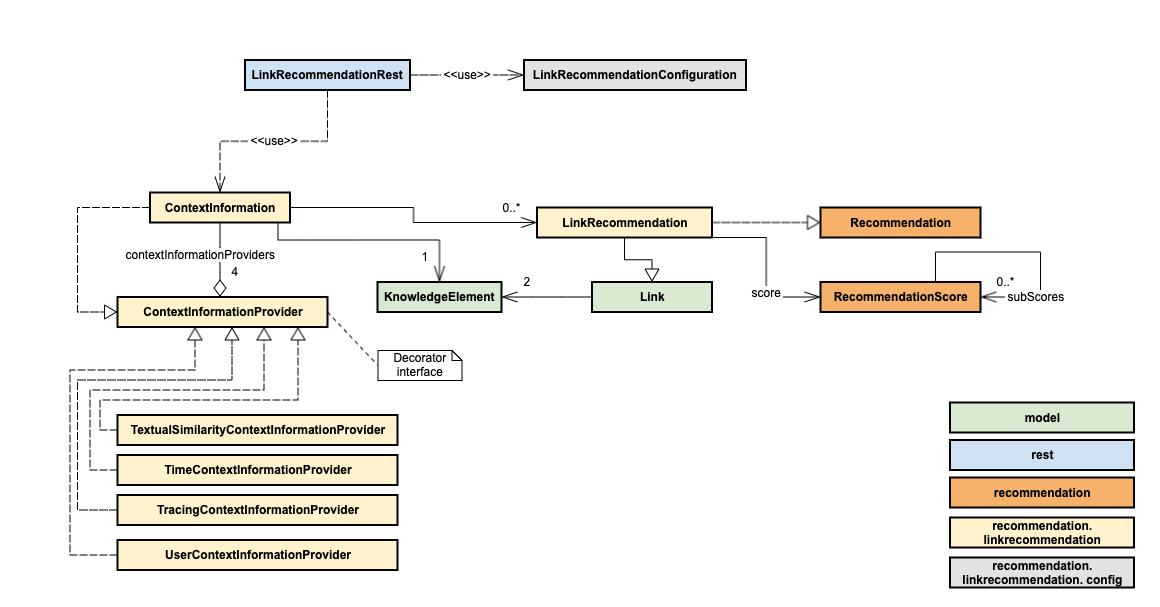
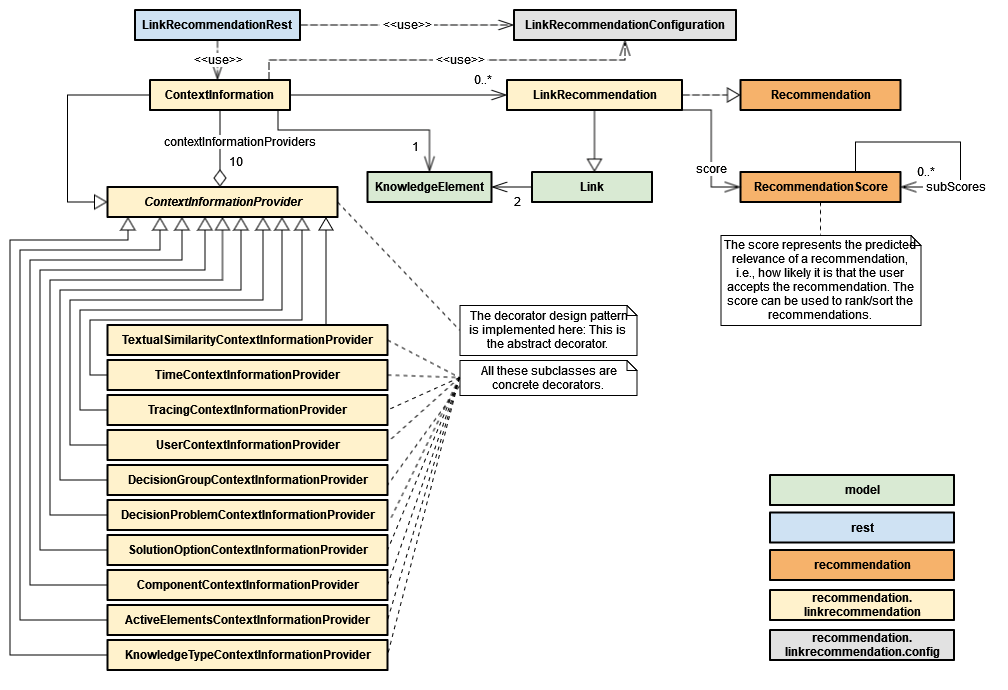
Add more comments

diff --git a/src/main/java/de/uhd/ifi/se/decision/management/jira/recommendation/linkrecommendation/contextinformation/ContextInformation.java b/src/main/java/de/uhd/ifi/se/decision/management/jira/recommendation/linkrecommendation/contextinformation/ContextInformation.java
@@ -2,13 +2,13 @@ package de.uhd.ifi.se.decision.management.jira.recommendation.linkrecommendation
 
 import java.util.ArrayList;
 import java.util.List;
+import java.util.Set;
 import java.util.TreeSet;
 
 import de.uhd.ifi.se.decision.management.jira.model.KnowledgeElement;
 import de.uhd.ifi.se.decision.management.jira.model.KnowledgeGraph;
 import de.uhd.ifi.se.decision.management.jira.model.KnowledgeType;
 import de.uhd.ifi.se.decision.management.jira.persistence.recommendation.DiscardedRecommendationPersistenceManager;
-import de.uhd.ifi.se.decision.management.jira.recommendation.Recommendation;
 import de.uhd.ifi.se.decision.management.jira.recommendation.RecommendationScore;
 import de.uhd.ifi.se.decision.management.jira.recommendation.RecommendationType;
 import de.uhd.ifi.se.decision.management.jira.recommendation.linkrecommendation.LinkRecommendation;
@@ -23,55 +23,31 @@ public class ContextInformation extends ContextInformationProvider {
 	private KnowledgeElement element;
 	private LinkRecommendationConfiguration linkRecommendationConfig;
 
+	/**
+	 * @param element
+	 *            selected/source element for that link recommendations should be
+	 *            made and duplicates be detected.
+	 * @param linkRecommendationConfig
+	 *            {@link LinkRecommendationConfiguration} object.
+	 */
 	public ContextInformation(KnowledgeElement element, LinkRecommendationConfiguration linkRecommendationConfig) {
 		this.element = element;
 		this.linkRecommendationConfig = linkRecommendationConfig;
 	}
 
-	public List<Recommendation> getLinkRecommendations() {
+	/**
+	 * @return the top-k {@link LinkRecommendation}s with a
+	 *         {@link RecommendationScore} above the threshold after sorting all the
+	 *         recommendations by their {@link RecommendationScore}. Discarded
+	 *         recommendations are marked as such. Potential duplicates are also
+	 *         marked as such by their {@link RecommendationType}.
+	 */
+	public List<LinkRecommendation> getLinkRecommendations() {
 		KnowledgeGraph graph = KnowledgeGraph.getInstance(element.getProject());
 		List<KnowledgeElement> unlinkedElements = graph.getUnlinkedElementsAndNotInSameJiraIssue(element);
-		List<Recommendation> recommendations = assessRelations(element, unlinkedElements);
+		List<LinkRecommendation> recommendations = assessRelations(element, unlinkedElements);
 		recommendations = filterUselessRecommendations(recommendations);
 		return markDiscardedRecommendations(recommendations);
-	}
-
-	private List<Recommendation> markDiscardedRecommendations(List<Recommendation> recommendations) {
-		List<KnowledgeElement> discardedElements = DiscardedRecommendationPersistenceManager
-				.getDiscardedLinkRecommendations(element);
-		return markDiscardedRecommendations(recommendations, discardedElements);
-	}
-
-	public static List<Recommendation> markDiscardedRecommendations(List<Recommendation> recommendations,
-			List<KnowledgeElement> discardedElements) {
-		for (Recommendation recommendation : recommendations) {
-			if (discardedElements.contains(((LinkRecommendation) recommendation).getTarget())) {
-				recommendation.setDiscarded(true);
-			}
-		}
-		return recommendations;
-	}
-
-	/**
-	 * @param recommendations
-	 *            all recommendations as an unsorted collection.
-	 * @return
-	 */
-	private List<Recommendation> filterUselessRecommendations(List<Recommendation> recommendations) {
-		TreeSet<Recommendation> sortedRecommendations = new TreeSet<Recommendation>(recommendations);
-		recommendations.clear();
-		int i = 0;
-		int k = linkRecommendationConfig.getMaxRecommendations(); // top k
-		for (Recommendation recommendation : sortedRecommendations) {
-			if (i == k) {
-				break;
-			}
-			if (recommendation.getScore().getValue() >= linkRecommendationConfig.getMinProbability()) {
-				recommendations.add(recommendation);
-			}
-			++i;
-		}
-		return recommendations;
 	}
 
 	@Override
@@ -98,8 +74,51 @@ public class ContextInformation extends ContextInformationProvider {
 	}
 
 	/**
+	 * @param recommendations
+	 *            {@link LinkRecommendation}s, sorting does not matter.
+	 * @return same {@link LinkRecommendation}s, but the recommendations that were
+	 *         discarded by the user are marked as such.
+	 * @see DiscardedRecommendationPersistenceManager
+	 */
+	private List<LinkRecommendation> markDiscardedRecommendations(List<LinkRecommendation> recommendations) {
+		List<KnowledgeElement> discardedElements = DiscardedRecommendationPersistenceManager
+				.getDiscardedLinkRecommendations(element);
+		for (LinkRecommendation recommendation : recommendations) {
+			if (discardedElements.contains(recommendation.getTarget())) {
+				recommendation.setDiscarded(true);
+			}
+		}
+		return recommendations;
+	}
+
+	/**
+	 * @param recommendations
+	 *            all {@link LinkRecommendation}s as an unsorted collection.
+	 * @return the top-k recommendations with a {@link RecommendationScore} above
+	 *         the threshold after sorting all the recommendations by their
+	 *         {@link RecommendationScore}.
+	 */
+	private List<LinkRecommendation> filterUselessRecommendations(List<LinkRecommendation> recommendations) {
+		Set<LinkRecommendation> sortedRecommendations = new TreeSet<>(recommendations);
+		recommendations.clear();
+		int i = 0;
+		int k = linkRecommendationConfig.getMaxRecommendations(); // top k
+		for (LinkRecommendation recommendation : sortedRecommendations) {
+			if (i == k) {
+				break;
+			}
+			if (recommendation.getScore().getValue() >= linkRecommendationConfig.getMinProbability()) {
+				recommendations.add(recommendation);
+			}
+			++i;
+		}
+		return recommendations;
+	}
+
+	/**
 	 * Makes recommendations whether one {@link KnowledgeElement} should be linked
-	 * to other {@link KnowledgeElement}s that are currently not linked to it.
+	 * to other {@link KnowledgeElement}s that are currently not linked to it or
+	 * whether it is even a potential duplicate.
 	 *
 	 * @param baseElement
 	 *            {@link KnowledgeElement} for that new links should be recommended
@@ -107,14 +126,14 @@ public class ContextInformation extends ContextInformationProvider {
 	 * @param knowledgeElements
 	 *            other {@link KnowledgeElement}s in the {@link KnowledgeGraph} that
 	 *            are not directly linked.
-	 * @return list of {@link Recommendation}s. For each {@link Recommendation}, the
+	 * @return list of {@link LinkRecommendation}s. For each recommendation, the
 	 *         {@link RecommendationScore} indicates whether the element should be
 	 *         linked.
 	 */
-	public List<Recommendation> assessRelations(KnowledgeElement baseElement,
+	public List<LinkRecommendation> assessRelations(KnowledgeElement baseElement,
 			List<KnowledgeElement> knowledgeElements) {
 
-		List<Recommendation> linkRecommendations = new ArrayList<>();
+		List<LinkRecommendation> linkRecommendations = new ArrayList<>();
 
 		for (KnowledgeElement elementToTest : knowledgeElements) {
 			if (elementToTest.getTypeAsString().equals(KnowledgeType.OTHER.toString())) {

diff --git a/src/test/java/de/uhd/ifi/se/decision/management/jira/recommendation/linkrecommendation/contextinformation/TestContextInformation.java b/src/test/java/de/uhd/ifi/se/decision/management/jira/recommendation/linkrecommendation/contextinformation/TestContextInformation.java
@@ -13,7 +13,6 @@ import org.junit.Test;
 import de.uhd.ifi.se.decision.management.jira.TestSetUp;
 import de.uhd.ifi.se.decision.management.jira.persistence.ConfigPersistenceManager;
 import de.uhd.ifi.se.decision.management.jira.persistence.recommendation.DiscardedRecommendationPersistenceManager;
-import de.uhd.ifi.se.decision.management.jira.recommendation.Recommendation;
 import de.uhd.ifi.se.decision.management.jira.recommendation.linkrecommendation.LinkRecommendation;
 import de.uhd.ifi.se.decision.management.jira.recommendation.linkrecommendation.LinkRecommendationConfiguration;
 import de.uhd.ifi.se.decision.management.jira.testdata.JiraIssues;
@@ -35,12 +34,11 @@ public class TestContextInformation extends TestSetUp {
 	public void testGetLinkRecommendations() {
 		ContextInformation contextInformation = new ContextInformation(KnowledgeElements.getDecision(),
 				linkRecommendationConfiguration);
-		List<Recommendation> linkRecommendations = contextInformation.getLinkRecommendations();
+		List<LinkRecommendation> linkRecommendations = contextInformation.getLinkRecommendations();
 		assertTrue(linkRecommendations.size() > 4);
-		
+
 		linkRecommendationConfiguration.setMaxRecommendations(1);
-		contextInformation = new ContextInformation(KnowledgeElements.getDecision(),
-				linkRecommendationConfiguration);
+		contextInformation = new ContextInformation(KnowledgeElements.getDecision(), linkRecommendationConfiguration);
 		linkRecommendations = contextInformation.getLinkRecommendations();
 
 		assertTrue(linkRecommendations.size() == 1);
@@ -55,7 +53,7 @@ public class TestContextInformation extends TestSetUp {
 		linkRecommendationConfiguration.getContextInformationProviders().get(0).setWeightValue(-1.0f);
 		ContextInformation contextInformation = new ContextInformation(KnowledgeElements.getDecision(),
 				linkRecommendationConfiguration);
-		List<Recommendation> linkRecommendations = contextInformation.getLinkRecommendations();
+		List<LinkRecommendation> linkRecommendations = contextInformation.getLinkRecommendations();
 
 		assertTrue(linkRecommendations.size() > 0);
 	}
@@ -65,7 +63,7 @@ public class TestContextInformation extends TestSetUp {
 		linkRecommendationConfiguration.setMinProbability(0.6);
 		ContextInformation contextInformation = new ContextInformation(KnowledgeElements.getDecision(),
 				linkRecommendationConfiguration);
-		List<Recommendation> linkRecommendations = contextInformation.getLinkRecommendations();
+		List<LinkRecommendation> linkRecommendations = contextInformation.getLinkRecommendations();
 		assertTrue(linkRecommendations.size() > 2);
 	}
 
@@ -75,7 +73,7 @@ public class TestContextInformation extends TestSetUp {
 		JiraIssues.getIrrelevantSentence();
 		ContextInformation contextInformation = new ContextInformation(KnowledgeElements.getDecision(),
 				linkRecommendationConfiguration);
-		List<Recommendation> linkRecommendations = contextInformation.getLinkRecommendations();
+		List<LinkRecommendation> linkRecommendations = contextInformation.getLinkRecommendations();
 		assertTrue(linkRecommendations.size() > 4);
 	}
 
@@ -86,7 +84,7 @@ public class TestContextInformation extends TestSetUp {
 				linkRecommendationConfiguration);
 		LinkRecommendation recommendation = (LinkRecommendation) contextInformation.getLinkRecommendations().get(0);
 		DiscardedRecommendationPersistenceManager.saveDiscardedRecommendation(recommendation);
-		List<Recommendation> linkRecommendations = contextInformation.getLinkRecommendations();
+		List<LinkRecommendation> linkRecommendations = contextInformation.getLinkRecommendations();
 		assertTrue(linkRecommendations.stream().filter(rec -> rec.isDiscarded()).count() > 0);
 	}
 

diff --git a/src/test/java/de/uhd/ifi/se/decision/management/jira/filtering/filteringmanager/TestGetFilteredGraph.java b/src/test/java/de/uhd/ifi/se/decision/management/jira/filtering/filteringmanager/TestGetFilteredGraph.java
@@ -23,7 +23,6 @@ import de.uhd.ifi.se.decision.management.jira.filtering.FilteringManager;
 import de.uhd.ifi.se.decision.management.jira.model.KnowledgeElement;
 import de.uhd.ifi.se.decision.management.jira.model.Link;
 import de.uhd.ifi.se.decision.management.jira.model.LinkType;
-import de.uhd.ifi.se.decision.management.jira.recommendation.Recommendation;
 import de.uhd.ifi.se.decision.management.jira.recommendation.linkrecommendation.LinkRecommendation;
 import de.uhd.ifi.se.decision.management.jira.recommendation.linkrecommendation.LinkRecommendationConfiguration;
 import de.uhd.ifi.se.decision.management.jira.recommendation.linkrecommendation.contextinformation.ContextInformation;
@@ -162,9 +161,9 @@ public class TestGetFilteredGraph extends TestSetUp {
 		FilteringManager filteringManager = new FilteringManager(filterSettings);
 		Graph<KnowledgeElement, Link> subgraph = filteringManager.getFilteredGraph();
 
-		List<Recommendation> recommendations = new ContextInformation(filterSettings.getSelectedElement(),
+		List<LinkRecommendation> recommendations = new ContextInformation(filterSettings.getSelectedElement(),
 				filterSettings.getLinkRecommendationConfig()).getLinkRecommendations();
 		assertFalse(recommendations.isEmpty());
-		assertTrue(subgraph.containsEdge((LinkRecommendation) recommendations.get(0)));
+		assertTrue(subgraph.containsEdge(recommendations.get(0)));
 	}
 }

diff --git a/src/main/java/de/uhd/ifi/se/decision/management/jira/rest/LinkRecommendationRest.java b/src/main/java/de/uhd/ifi/se/decision/management/jira/rest/LinkRecommendationRest.java
@@ -1,6 +1,5 @@
 package de.uhd.ifi.se.decision.management.jira.rest;
 
-import java.util.Collection;
 import java.util.List;
 
 import javax.servlet.http.HttpServletRequest;
@@ -18,7 +17,6 @@ import com.google.common.collect.ImmutableMap;
 import de.uhd.ifi.se.decision.management.jira.filtering.FilterSettings;
 import de.uhd.ifi.se.decision.management.jira.persistence.ConfigPersistenceManager;
 import de.uhd.ifi.se.decision.management.jira.persistence.recommendation.DiscardedRecommendationPersistenceManager;
-import de.uhd.ifi.se.decision.management.jira.recommendation.Recommendation;
 import de.uhd.ifi.se.decision.management.jira.recommendation.linkrecommendation.LinkRecommendation;
 import de.uhd.ifi.se.decision.management.jira.recommendation.linkrecommendation.LinkRecommendationConfiguration;
 import de.uhd.ifi.se.decision.management.jira.recommendation.linkrecommendation.contextinformation.ContextInformation;
@@ -50,7 +48,7 @@ public class LinkRecommendationRest {
 		}
 		ContextInformation contextInformation = new ContextInformation(filterSettings.getSelectedElementFromDatabase(),
 				filterSettings.getLinkRecommendationConfig());
-		Collection<Recommendation> linkRecommendations = contextInformation.getLinkRecommendations();
+		List<LinkRecommendation> linkRecommendations = contextInformation.getLinkRecommendations();
 		return Response.ok(linkRecommendations).build();
 	}
 

diff --git a/src/main/java/de/uhd/ifi/se/decision/management/jira/filtering/FilteringManager.java b/src/main/java/de/uhd/ifi/se/decision/management/jira/filtering/FilteringManager.java
@@ -24,7 +24,6 @@ import de.uhd.ifi.se.decision.management.jira.model.Link;
 import de.uhd.ifi.se.decision.management.jira.model.LinkType;
 import de.uhd.ifi.se.decision.management.jira.quality.DefinitionOfDone;
 import de.uhd.ifi.se.decision.management.jira.quality.KnowledgeElementCheck;
-import de.uhd.ifi.se.decision.management.jira.recommendation.Recommendation;
 import de.uhd.ifi.se.decision.management.jira.recommendation.linkrecommendation.LinkRecommendation;
 import de.uhd.ifi.se.decision.management.jira.recommendation.linkrecommendation.contextinformation.ContextInformation;
 
@@ -395,10 +394,10 @@ public class FilteringManager {
 	private KnowledgeGraph addLinkRecommendations(KnowledgeGraph filteredGraph) {
 		ContextInformation linkRecommender = new ContextInformation(filterSettings.getSelectedElement(),
 				filterSettings.getLinkRecommendationConfig());
-		List<Recommendation> linkRecommendations = linkRecommender.getLinkRecommendations();
-		for (Recommendation recommendation : linkRecommendations) {
+		List<LinkRecommendation> linkRecommendations = linkRecommender.getLinkRecommendations();
+		for (LinkRecommendation recommendation : linkRecommendations) {
 			if (!recommendation.isDiscarded()) {
-				filteredGraph.addEdge((LinkRecommendation) recommendation);
+				filteredGraph.addEdge(recommendation);
 			}
 		}
 		return filteredGraph;

diff --git a/doc/features/link-recommendation.md b/doc/features/link-recommendation.md
@@ -3,7 +3,7 @@
 The ConDec Jira plug-in offers a feature that **recommends new links between knowledge elements** and 
 that tries to **identify duplicated knowledge elements**.
 In particular, the feature should support developers in
-1. avoiding duplicated decision making through **identifying related decision problems and solution options** documented by others or in the past
+1. avoiding duplicated decision making through **identifying related decision problems and solution options** documented by others or in the past,
 2. detecting impacts, side, and ripple effects during changes in combination with **[change impact analysis (CIA)](change-impact-analysis.md)**, and 
 3. general knowledge sharing.
 
@@ -63,6 +63,18 @@ e.g. in the [node-link diagram](../screenshots/link_recommendation_duplicates_no
 *Node-link diagram showing the context of a user story.
 Directly and transitively linked decision problems (issues) and solution options (alternatives) are shown that match the "export" filter string. 
 The alternatives are duplicated.*
+
+## Configuration
+The rationale manager can configure the **default parameters** for the link recommendation, in particular, the
+1. maximum number of recommendations (**top-k**), 
+2. the **threshold**, and 
+3. default ruleset (context information providers). The rationale manager can enable/disable each rule and can set a weight value (similar as for [CIA](change-impact-analysis.md)). 
+
+Furthermore, the developer can change the default values during the usage of the link recommendation. 
+
+![Configuration view for link recommendation and duplicate recognition](../screenshots/link_recommendation_configuration.png)
+
+*Configuration view for link recommendation and duplicate recognition*
 
 ## Design Details
 The following class diagram gives an overview of relevant backend classes for this feature.
